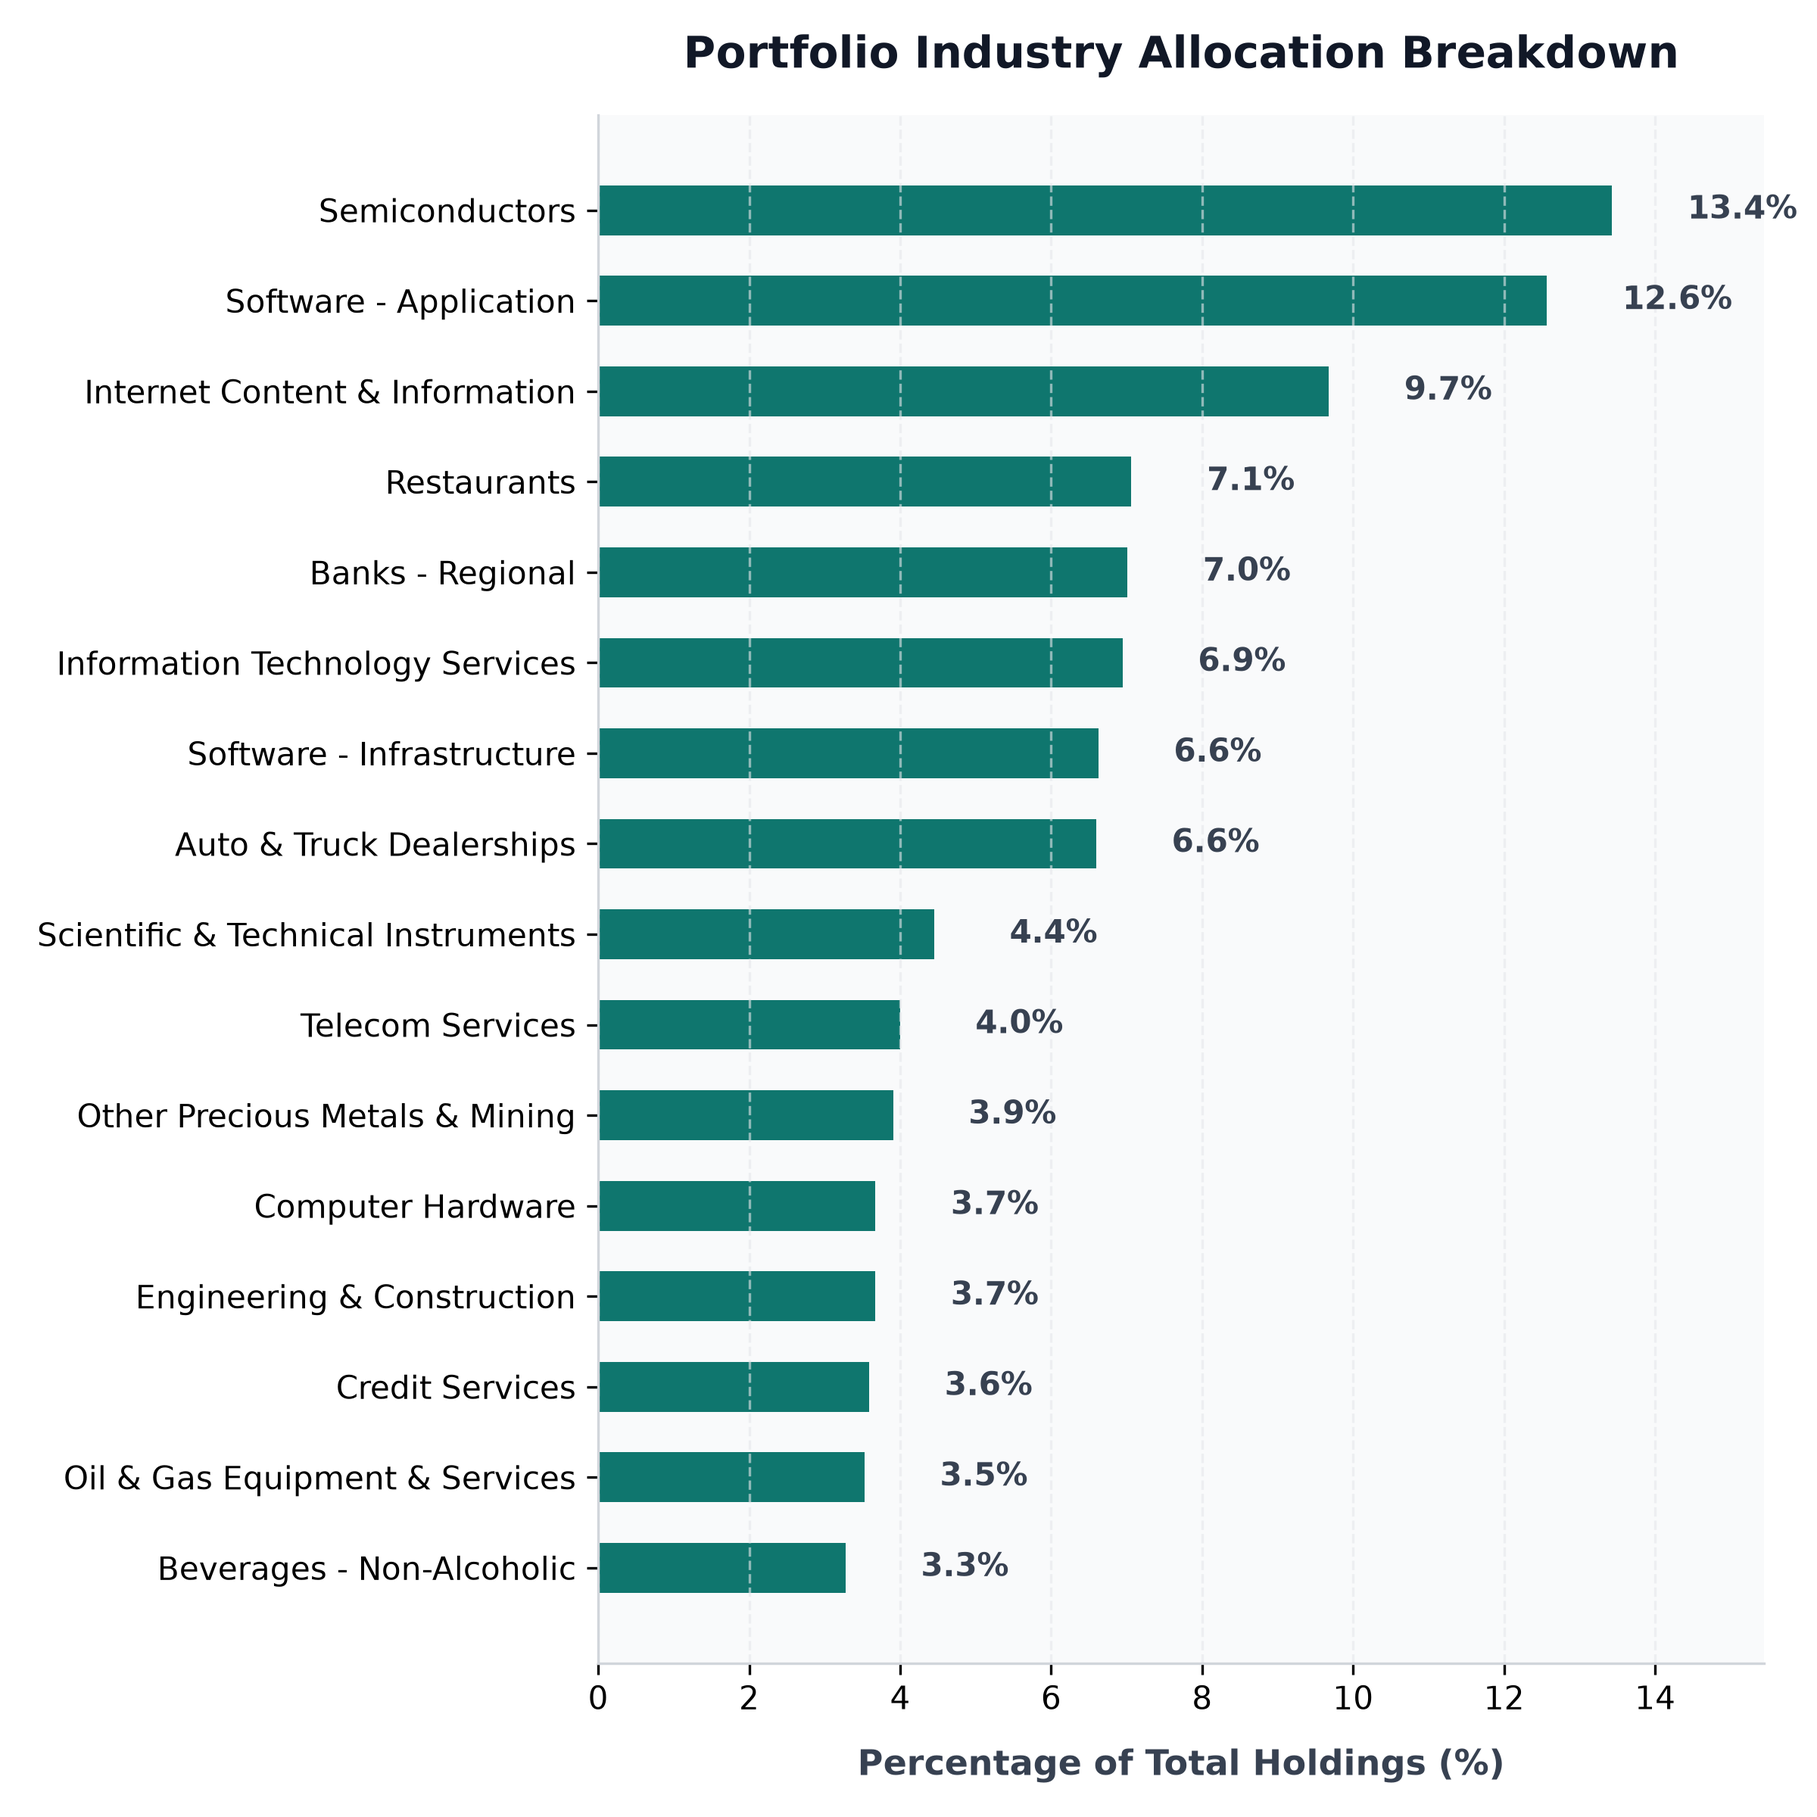
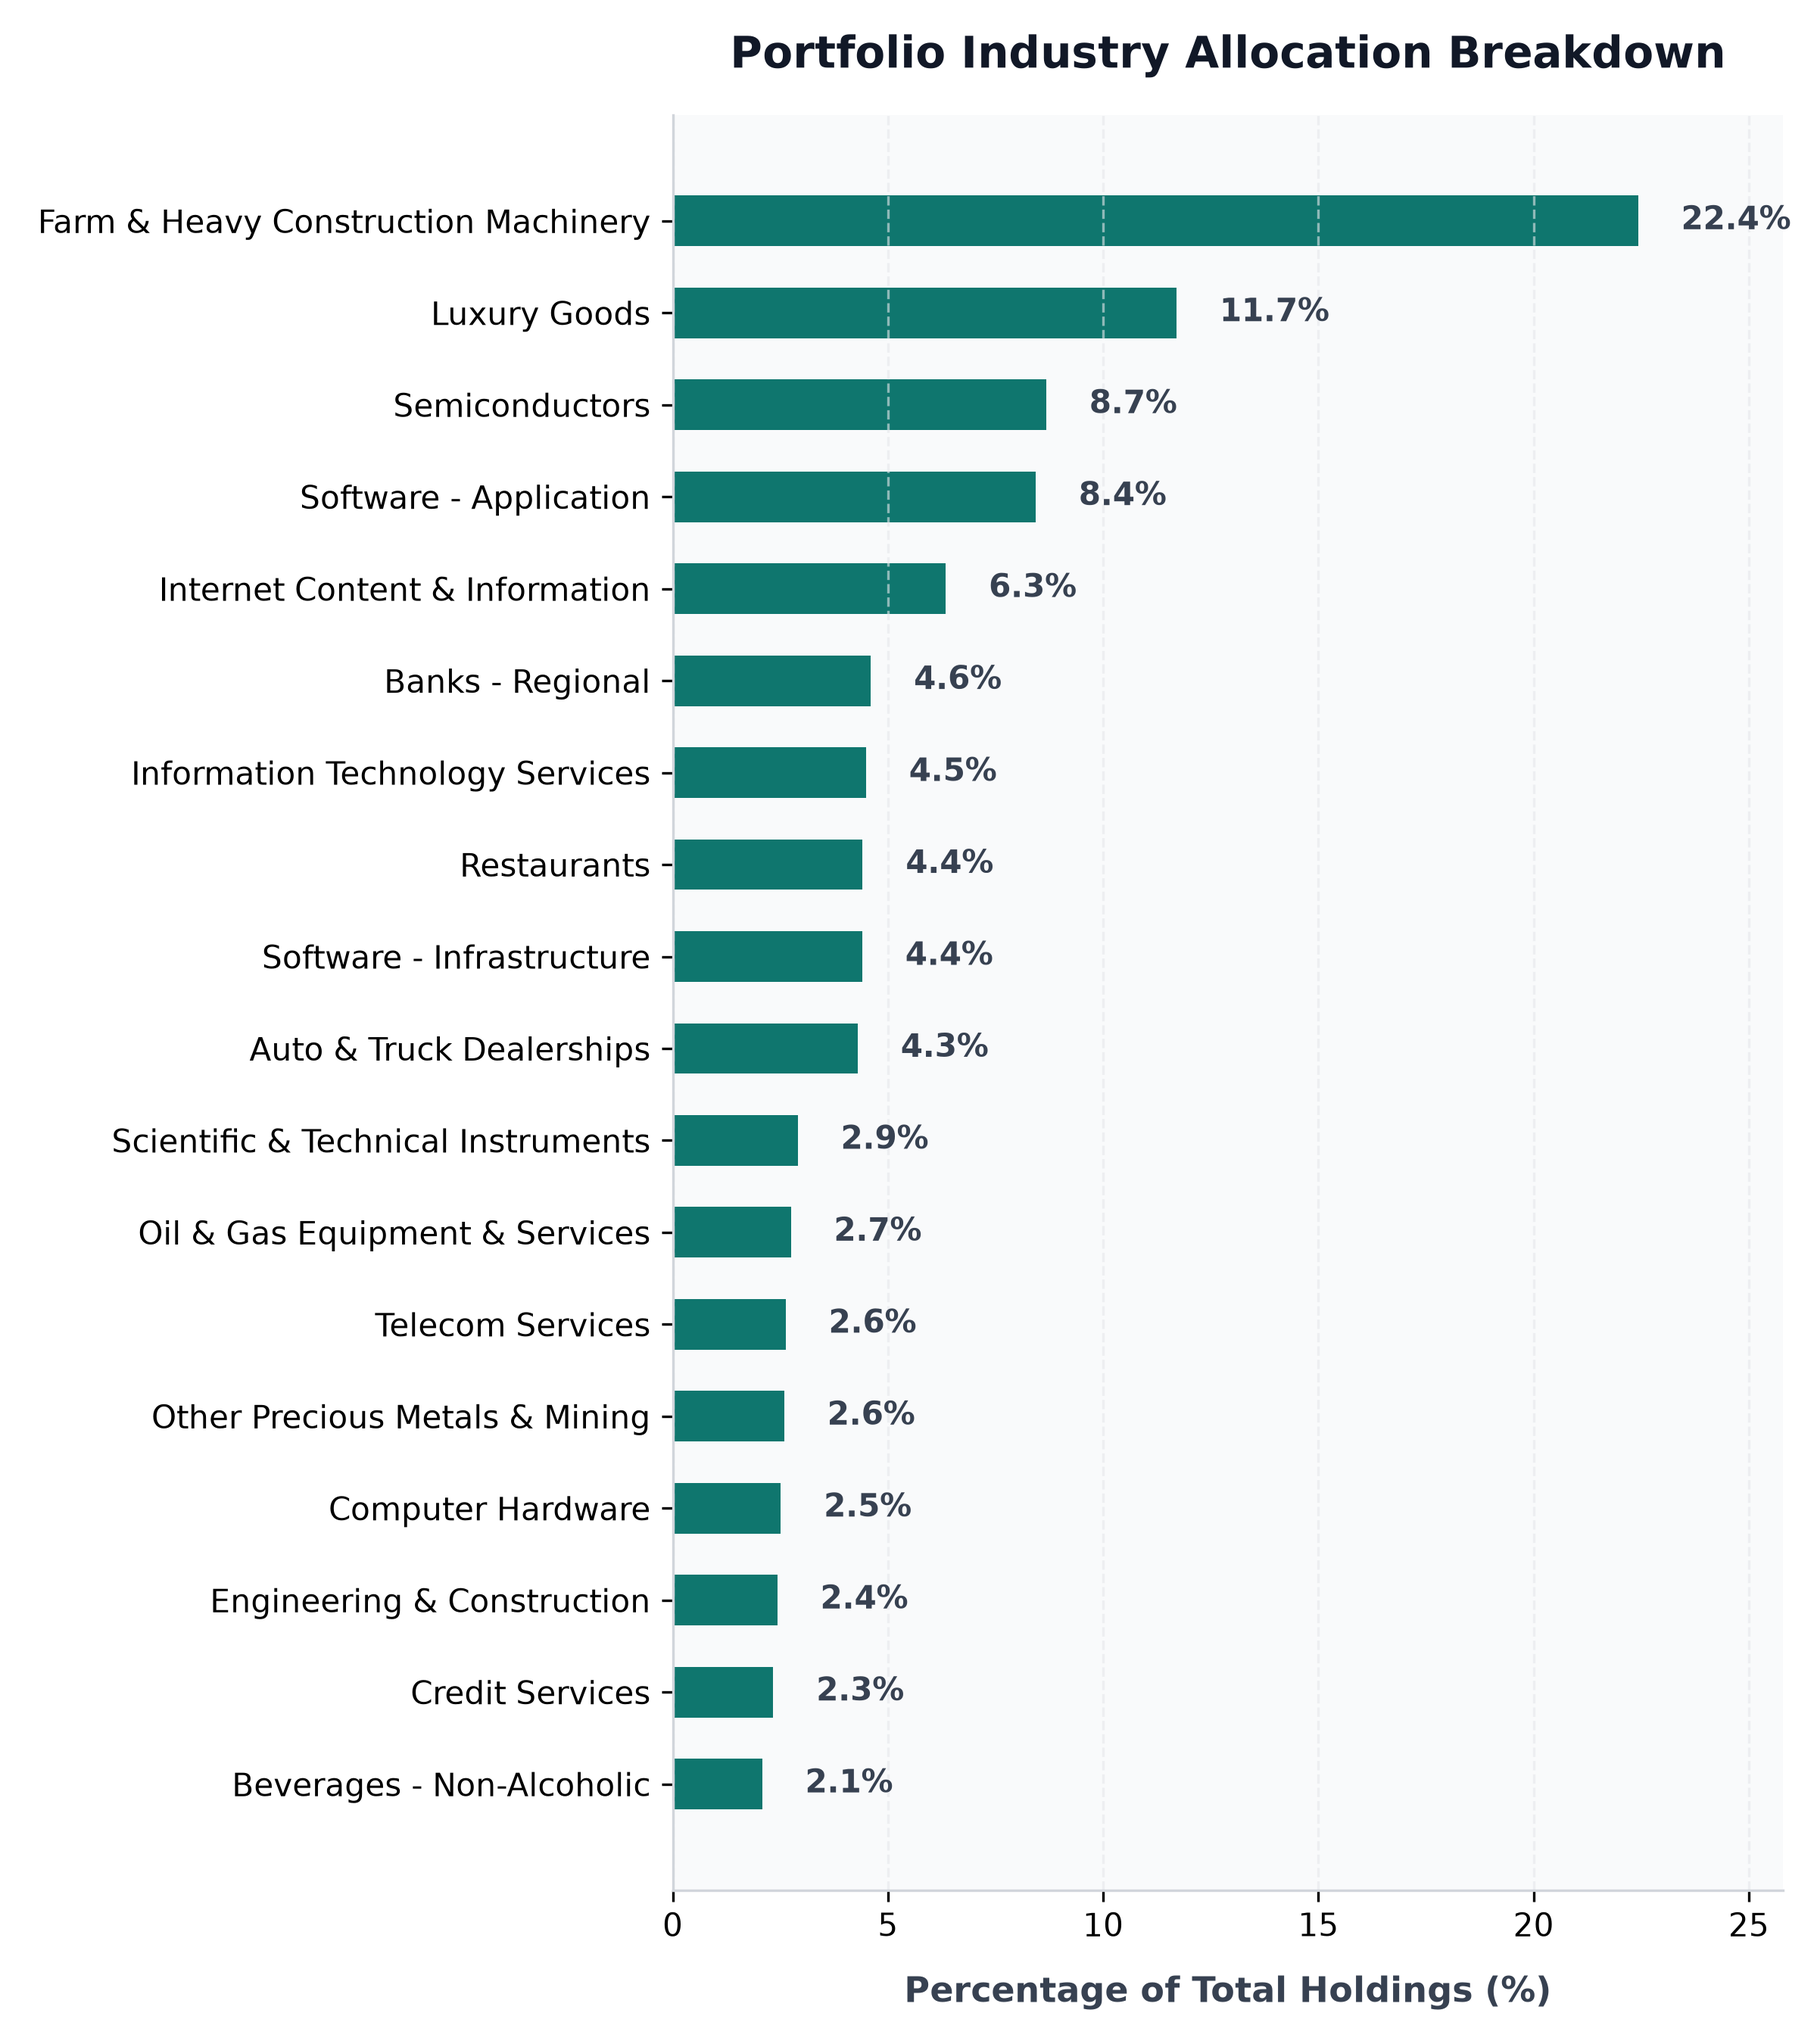
auto: daily portfolio status update - 2026-08-11 00:00:13

diff --git a/src/content/posts/portfolio-performance.md b/src/content/posts/portfolio-performance.md
@@ -1,6 +1,6 @@
 ---
 title: "BadOmen Algorithmic Portfolio Performance & PnL Report"
-pubDatetime: 2026-08-09T13:17:49.688510+08:00
+pubDatetime: 2026-08-11T00:00:13.363967+08:00
 description: "Live performance metrics, active holdings, and historic equity curve for the BadOmen automated paper trading portfolio."
 featured: true
 draft: false
@@ -16,11 +16,11 @@ Welcome to the live performance dashboard for **BadOmen**, our automated algorit
 ## 📊 Portfolio Summary
 | Performance Metric | Value | description |
 | :--- | :--- | :--- |
-| **Net Portfolio Equity** | **$100,912.77** | Total current liquidation value of cash and stock holdings |
-| **Total Unrealized P&L** | 🟢 **+$252.39** (+0.25%) | Total return of current open holdings |
-| **Cash Balance** | $72,934.30 | Idle reserve currency available for limit orders |
-| **Buying Power** | $370,076.92 | Margin-backed buying power for entry allocations |
-| **Report Updated** | `2026-08-09 13:17:49 (SGT)` | Timestamp of daily execution and sync run |
+| **Net Portfolio Equity** | **$100,555.09** | Total current liquidation value of cash and stock holdings |
+| **Total Unrealized P&L** | 🔴 **$-104.34** (-0.10%) | Total return of current open holdings |
+| **Cash Balance** | $57,887.88 | Idle reserve currency available for limit orders |
+| **Buying Power** | $335,756.48 | Margin-backed buying power for entry allocations |
+| **Report Updated** | `2026-08-11 00:00:13 (SGT)` | Timestamp of daily execution and sync run |
 
 ## 📈 Net Equity Growth Curve
 The chart below illustrates the historical performance of the account starting from our baseline capital funding of $100,000.00.
@@ -35,32 +35,34 @@ The chart below illustrates the exposure of our currently held active positions 
 ## 💼 Current Position Holdings
 | Ticker | Industry | Shares Owned | Average Entry Cost | Current Price | Unrealized P&L | Return (%) |
 | :--- | :--- | :--- | :--- | :--- | :--- | :--- |
-| **AN** | Auto & Truck Dealerships | 5 | $188.51 | $209.23 | 🟢 +$103.61 | +10.99% |
-| **AVGO** | Semiconductors | 1 | $385.71 | $427.76 | 🟢 +$42.05 | +10.90% |
-| **BVN** | Other Precious Metals & Mining | 32 | $31.88 | $34.15 | 🟢 +$72.80 | +7.14% |
-| **CELH** | Beverages - Non-Alcoholic | 33 | $29.71 | $27.77 | 🔴 $-64.11 | -6.54% |
-| **DUOL** | Software - Application | 14 | $131.04 | $130.90 | 🔴 $-2.02 | -0.11% |
-| **FIS** | Information Technology Services | 23 | $41.79 | $42.77 | 🟢 +$22.54 | +2.34% |
-| **GDDY** | Software - Infrastructure | 6 | $76.21 | $91.07 | 🟢 +$89.16 | +19.50% |
-| **GDS** | Information Technology Services | 30 | $32.77 | $31.98 | 🔴 $-23.70 | -2.41% |
-| **GGAL** | Banks - Regional | 17 | $56.04 | $46.18 | 🔴 $-167.61 | -17.59% |
-| **GOOGL** | Internet Content & Information | 3 | $319.44 | $354.30 | 🟢 +$104.58 | +10.91% |
-| **GPI** | Auto & Truck Dealerships | 3 | $316.15 | $266.47 | 🔴 $-149.04 | -15.71% |
-| **HUBS** | Software - Application | 8 | $221.18 | $210.45 | 🔴 $-85.85 | -4.85% |
-| **ITRI** | Scientific & Technical Instruments | 12 | $81.80 | $103.75 | 🟢 +$263.40 | +26.83% |
-| **KBR** | Engineering & Construction | 27 | $36.23 | $38.04 | 🟢 +$48.79 | +4.99% |
-| **META** | Internet Content & Information | 1 | $568.17 | $592.10 | 🟢 +$23.93 | +4.21% |
-| **NESR** | Oil & Gas Equipment & Services | 34 | $28.74 | $29.02 | 🟢 +$9.52 | +0.97% |
-| **NU** | Banks - Regional | 85 | $11.60 | $13.84 | 🟢 +$190.52 | +19.32% |
-| **ON** | Semiconductors | 10 | $90.45 | $81.17 | 🔴 $-92.85 | -10.27% |
-| **ORCL** | Software - Infrastructure | 5 | $181.95 | $147.02 | 🔴 $-174.65 | -19.20% |
-| **PATH** | Software - Infrastructure | 38 | $10.25 | $15.05 | 🟢 +$182.40 | +46.83% |
-| **PYPL** | Credit Services | 17 | $56.05 | $59.07 | 🟢 +$51.34 | +5.39% |
-| **QCOM** | Semiconductors | 15 | $193.68 | $167.86 | 🔴 $-387.37 | -13.33% |
-| **SMCI** | Computer Hardware | 33 | $29.25 | $31.13 | 🟢 +$62.04 | +6.43% |
-| **T** | Telecom Services | 47 | $20.85 | $23.79 | 🟢 +$138.18 | +14.10% |
-| **WEN** | Restaurants | 257 | $8.02 | $7.69 | 🔴 $-85.77 | -4.16% |
-| **ZG** | Internet Content & Information | 31 | $31.35 | $33.95 | 🟢 +$80.50 | +8.28% |
+| **AN** | Auto & Truck Dealerships | 5 | $188.51 | $208.34 | 🟢 +$99.16 | +10.52% |
+| **AVGO** | Semiconductors | 1 | $385.71 | $427.28 | 🟢 +$41.57 | +10.78% |
+| **BLBD** | Farm & Heavy Construction Machinery | 148 | $67.64 | $64.66 | 🔴 $-440.92 | -4.41% |
+| **BVN** | Other Precious Metals & Mining | 32 | $31.88 | $34.54 | 🟢 +$85.28 | +8.36% |
+| **CELH** | Beverages - Non-Alcoholic | 33 | $29.71 | $26.85 | 🔴 $-94.45 | -9.63% |
+| **CPRI** | Luxury Goods | 326 | $15.45 | $15.32 | 🔴 $-41.50 | -0.82% |
+| **DUOL** | Software - Application | 14 | $131.04 | $134.89 | 🟢 +$53.84 | +2.94% |
+| **FIS** | Information Technology Services | 23 | $41.79 | $42.41 | 🟢 +$14.38 | +1.50% |
+| **GDDY** | Software - Infrastructure | 6 | $76.21 | $91.19 | 🟢 +$89.88 | +19.66% |
+| **GDS** | Information Technology Services | 30 | $32.77 | $31.34 | 🔴 $-43.05 | -4.38% |
+| **GGAL** | Banks - Regional | 17 | $56.04 | $45.90 | 🔴 $-172.41 | -18.10% |
+| **GOOGL** | Internet Content & Information | 3 | $319.44 | $354.29 | 🟢 +$104.55 | +10.91% |
+| **GPI** | Auto & Truck Dealerships | 3 | $316.15 | $263.97 | 🔴 $-156.54 | -16.50% |
+| **HUBS** | Software - Application | 8 | $221.18 | $213.63 | 🔴 $-60.41 | -3.41% |
+| **ITRI** | Scientific & Technical Instruments | 12 | $81.80 | $103.24 | 🟢 +$257.28 | +26.21% |
+| **KBR** | Engineering & Construction | 27 | $36.23 | $38.38 | 🟢 +$57.97 | +5.93% |
+| **META** | Internet Content & Information | 1 | $568.17 | $599.70 | 🟢 +$31.53 | +5.55% |
+| **NESR** | Oil & Gas Equipment & Services | 34 | $28.74 | $34.43 | 🟢 +$193.46 | +19.80% |
+| **NU** | Banks - Regional | 85 | $11.60 | $13.93 | 🟢 +$197.75 | +20.06% |
+| **ON** | Semiconductors | 10 | $90.45 | $81.16 | 🔴 $-92.95 | -10.28% |
+| **ORCL** | Software - Infrastructure | 5 | $181.95 | $149.94 | 🔴 $-160.05 | -17.59% |
+| **PATH** | Software - Infrastructure | 38 | $10.25 | $15.30 | 🟢 +$192.09 | +49.32% |
+| **PYPL** | Credit Services | 17 | $56.05 | $58.62 | 🟢 +$43.60 | +4.58% |
+| **QCOM** | Semiconductors | 15 | $193.68 | $164.24 | 🔴 $-441.67 | -15.20% |
+| **SMCI** | Computer Hardware | 33 | $29.25 | $32.45 | 🟢 +$105.60 | +10.94% |
+| **T** | Telecom Services | 47 | $20.85 | $23.80 | 🟢 +$138.88 | +14.17% |
+| **WEN** | Restaurants | 257 | $8.02 | $7.33 | 🔴 $-179.34 | -8.70% |
+| **ZG** | Internet Content & Information | 31 | $31.35 | $33.68 | 🟢 +$72.13 | +7.42% |
 
 ## 🔴 Recent Realized Trades
 | Ticker | Shares Sold | Entry Price | Exit Price | Strategy Trigger | Realized Return | Exit Date |
